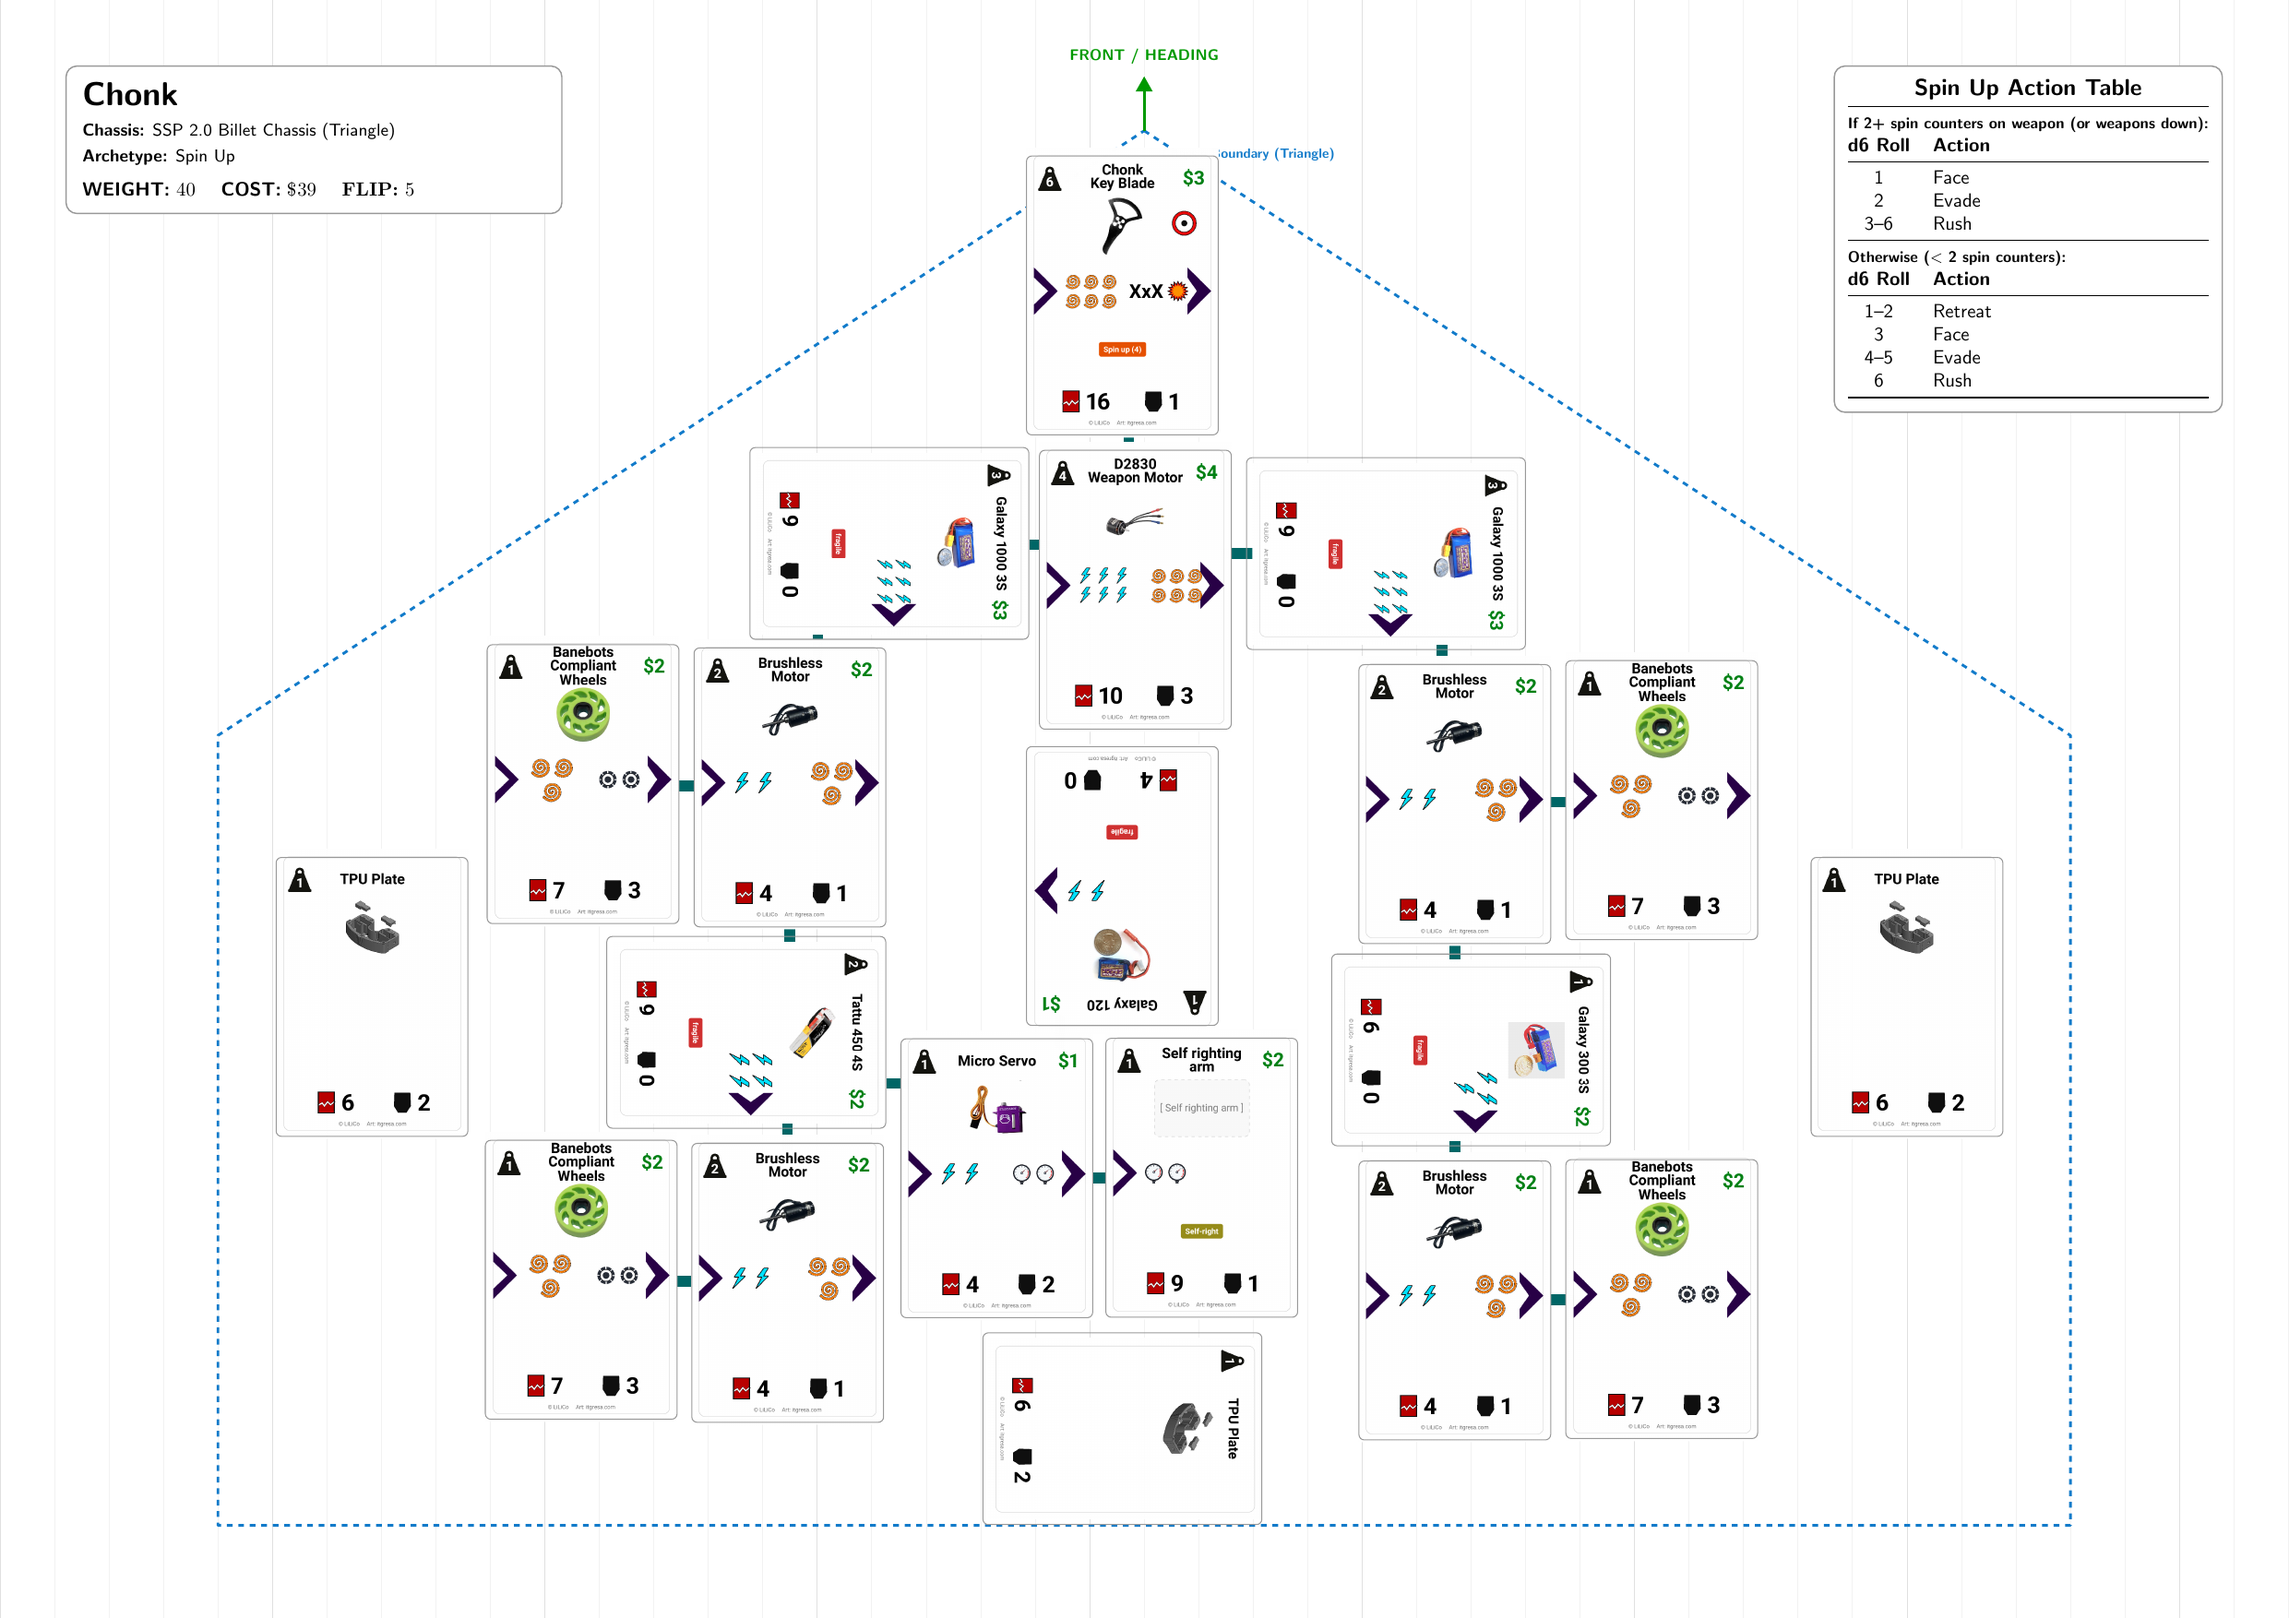
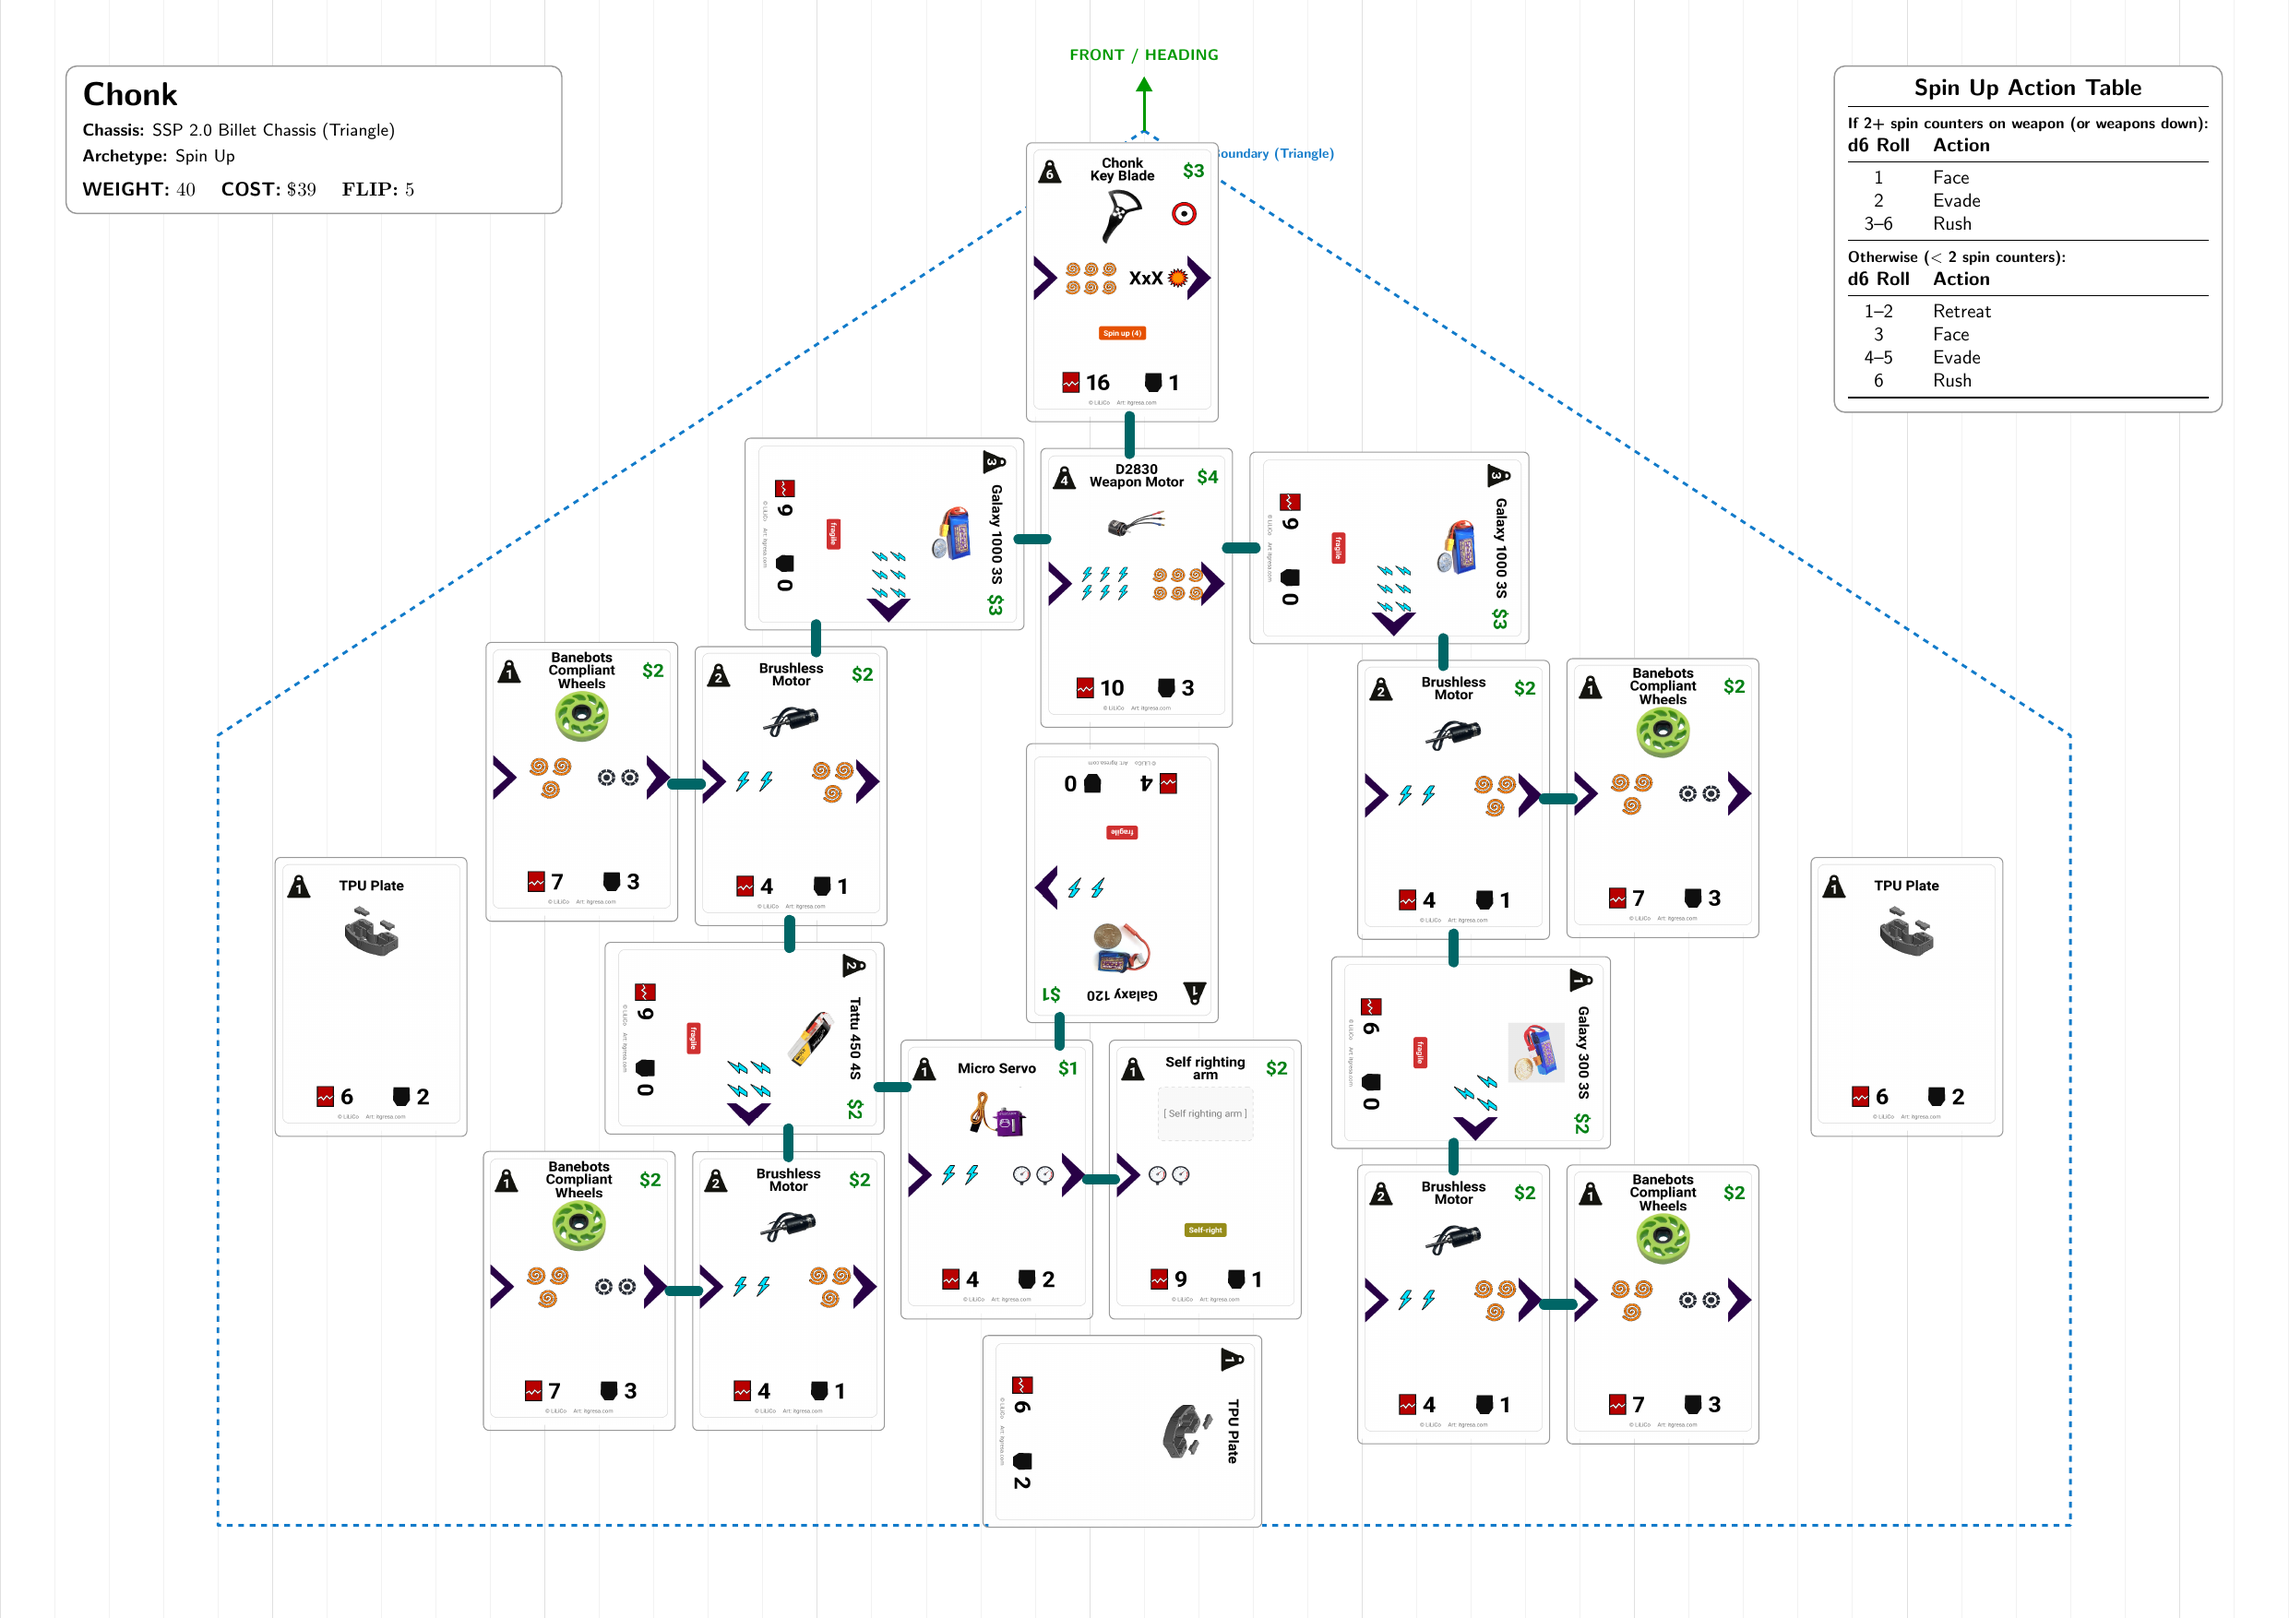
Fix vertical connection lines visibility on automata sheets

diff --git a/scripts/generate_automata_sheets.py b/scripts/generate_automata_sheets.py
@@ -200,7 +200,7 @@ def get_action_table_for_bot(bot_stem: str) -> Dict[str, Any]:
 def resolve_layout(
     placed: List[Dict[str, Any]],
     scale: float = 0.80,
-    min_gap: float = 3.0,
+    min_gap: float = 3.5,
     sheet_w: float = A3_WIDTH_MM,
     sheet_h: float = A3_HEIGHT_MM,
     iterations: int = 150,
@@ -294,15 +294,15 @@ def resolve_layout(
             b1["cx"] += 0.05 * (b1["target_cx"] - b1["cx"])
             b1["cy"] += 0.05 * (b1["target_cy"] - b1["cy"])
 
-    # 4. Final strict pass to guarantee strictly 0 overlaps
-    for _ in range(40):
+    # 4. Final strict pass to guarantee strictly 0 overlaps with min_gap
+    for _ in range(60):
         moved = 0
         for i in range(len(boxes)):
             b1 = boxes[i]
             for j in range(i + 1, len(boxes)):
                 b2 = boxes[j]
-                req_dx = (b1["w"] + b2["w"]) / 2.0 + 0.5
-                req_dy = (b1["h"] + b2["h"]) / 2.0 + 0.5
+                req_dx = (b1["w"] + b2["w"]) / 2.0 + min_gap
+                req_dy = (b1["h"] + b2["h"]) / 2.0 + min_gap
                 dx = b2["cx"] - b1["cx"]
                 dy = b2["cy"] - b1["cy"]
                 ox = req_dx - abs(dx)
@@ -504,7 +504,7 @@ def generate_action_table_tex(action_data: Dict[str, Any]) -> str:
     return "\n".join(lines)
 
 
-def generate_robot_page_tikz(bot_info: Dict[str, Any], scale: float = 0.80, min_gap: float = 3.0) -> str:
+def generate_robot_page_tikz(bot_info: Dict[str, Any], scale: float = 0.80, min_gap: float = 3.5) -> str:
     """Generates the TikZ environment for a single robot's A3 landscape page."""
     bot_name = bot_info["bot_name"]
     display_name = normalize_robot_name(bot_name)
@@ -568,7 +568,49 @@ def generate_robot_page_tikz(bot_info: Dict[str, Any], scale: float = 0.80, min_
     lines.append(f"    {action_table_tex}")
     lines.append(r"  };")
 
-    # 6. Component Connection Lines
+    # 6. Card Nodes
+    lines.append(r"  % Robot Component Cards")
+    unrot_w = CARD_WIDTH_MM * scale
+    unrot_h = CARD_HEIGHT_MM * scale
+
+    for b in boxes:
+        card_name = b["card"]
+        cx = b["cx"]
+        cy = b["cy"]
+        w = b["w"]
+        h = b["h"]
+        rot = b["rotation"]
+
+        # Check image availability
+        url = get_card_image_url(card_name)
+        if url:
+            img_filename = Path(url).name
+            if rot == 0:
+                angle_opt = ""
+            else:
+                angle_opt = f", angle=-{rot}"
+
+            lines.append(
+                rf"  \node[inner sep=0, anchor=center] at ({cx:.2f}, {cy:.2f}) "
+                rf"{{\includegraphics[width={unrot_w:.2f}mm, height={unrot_h:.2f}mm{angle_opt}]{{{img_filename}}}}};"
+            )
+            # Subtle card boundary frame
+            lines.append(
+                rf"  \draw[rounded corners=1mm, line width=0.5pt, black!40] "
+                rf"({cx - w / 2.0:.2f}, {cy - h / 2.0:.2f}) rectangle ({cx + w / 2.0:.2f}, {cy + h / 2.0:.2f});"
+            )
+        else:
+            # Fallback vector card block
+            lines.append(
+                rf"  \filldraw[fill=blue!5!white, draw=blue!40!black, rounded corners=1mm, line width=0.6pt] "
+                rf"({cx - w / 2.0:.2f}, {cy - h / 2.0:.2f}) rectangle ({cx + w / 2.0:.2f}, {cy + h / 2.0:.2f});"
+            )
+            lines.append(
+                rf"  \node[align=center, font=\footnotesize\sffamily\bfseries, text width={w - 4:.2f}mm] "
+                rf"at ({cx:.2f}, {cy:.2f}) {{{tex_escape(card_name)}}};"
+            )
+
+    # 7. Component Connection Lines (drawn after cards so they sit clearly on top of card borders)
     lines.append(r"  % Component Edge Connections")
     drawn_pairs: Set[Tuple[str, str]] = set()
     for id_a, id_b in connected_pairs:
@@ -592,7 +634,7 @@ def generate_robot_page_tikz(bot_info: Dict[str, Any], scale: float = 0.80, min_
         if not (is_ortho and seg_len <= 8.5 or (not is_ortho and seg_len <= 4.0)):
             continue
 
-        # Extend line segment by 1.0mm under adjacent card borders so there is no gap
+        # Extend line segment by 1.0mm onto adjacent card borders so there is no gap
         dx = (x2 - x1) / seg_len
         dy = (y2 - y1) / seg_len
         ex1, ey1 = x1 - dx * 1.0, y1 - dy * 1.0
@@ -602,52 +644,6 @@ def generate_robot_page_tikz(bot_info: Dict[str, Any], scale: float = 0.80, min_
             rf"  \draw[line width=5.5pt, teal!80!black, line cap=round] "
             rf"({ex1:.2f}, {ey1:.2f}) -- ({ex2:.2f}, {ey2:.2f});"
         )
-
-    # 7. Card Nodes
-    lines.append(r"  % Robot Component Cards")
-    for b in boxes:
-        card_name = b["card"]
-        cx = b["cx"]
-        cy = b["cy"]
-        w = b["w"]
-        h = b["h"]
-        rot = b["rotation"]
-
-        # Check image availability
-        url = get_card_image_url(card_name)
-        if url:
-            img_filename = Path(url).name
-            # Handle graphicx angle key: clockwise in SVG is negative angle in graphicx
-            if rot == 0:
-                angle_opt = ""
-            elif rot == 90:
-                angle_opt = "angle=-90, "
-            elif rot == 180:
-                angle_opt = "angle=180, "
-            elif rot == 270:
-                angle_opt = "angle=-270, "
-            else:
-                angle_opt = f"angle=-{rot}, "
-
-            lines.append(
-                rf"  \node[inner sep=0, anchor=center] at ({cx:.2f}, {cy:.2f}) "
-                rf"{{\includegraphics[{angle_opt}width={w:.2f}mm]{{{img_filename}}}}};"
-            )
-            # Subtle card boundary frame
-            lines.append(
-                rf"  \draw[rounded corners=1mm, line width=0.5pt, black!40] "
-                rf"({cx - w / 2.0:.2f}, {cy - h / 2.0:.2f}) rectangle ({cx + w / 2.0:.2f}, {cy + h / 2.0:.2f});"
-            )
-        else:
-            # Fallback vector card block
-            lines.append(
-                rf"  \filldraw[fill=blue!5!white, draw=blue!40!black, rounded corners=1mm, line width=0.6pt] "
-                rf"({cx - w / 2.0:.2f}, {cy - h / 2.0:.2f}) rectangle ({cx + w / 2.0:.2f}, {cy + h / 2.0:.2f});"
-            )
-            lines.append(
-                rf"  \node[align=center, font=\footnotesize\sffamily\bfseries, text width={w - 4:.2f}mm] "
-                rf"at ({cx:.2f}, {cy:.2f}) {{{tex_escape(card_name)}}};"
-            )
 
     lines.append(r"\end{tikzpicture}")
     return "\n".join(lines)
@@ -677,7 +673,7 @@ def generate_latex_document(robot_pages_tikz: List[str]) -> str:
 # ---------------------------------------------------------------------------
 
 def process_robot_csv(
-    csv_file: Path | str, scale: float = 0.80, min_gap: float = 3.0
+    csv_file: Path | str, scale: float = 0.80, min_gap: float = 3.5
 ) -> Dict[str, Any]:
     """Loads an automaton CSV and calculates layout and connections."""
     csv_path = Path(csv_file)

diff --git a/tests/test_automata_sheets.py b/tests/test_automata_sheets.py
@@ -146,7 +146,7 @@ class TestAutomataSheets(unittest.TestCase):
 
         # 3. TikZ styling check
         page_tikz = generate_robot_page_tikz(b_info)
-        conn_section = page_tikz.split("% Component Edge Connections")[1].split("% Robot Component Cards")[0]
+        conn_section = page_tikz.split("% Component Edge Connections")[1].split(r"\end{tikzpicture}")[0]
         self.assertIn(r"\draw[line width=5.5pt, teal!80!black, line cap=round]", conn_section)
         self.assertNotIn("Circle", conn_section)
         self.assertNotIn("dashed", conn_section)

diff --git a/scripts/generate_diagram_assets.py b/scripts/generate_diagram_assets.py
@@ -378,7 +378,7 @@ def generate_example_automata_layout() -> None:
     for l in lines:
         if "% Title & Specs Information Plate" in l:
             skip = True
-        elif "% Component Edge Connections" in l:
+        elif "% Robot Component Cards" in l or "% Component Edge Connections" in l:
             skip = False
         if not skip:
             filtered.append(l)
